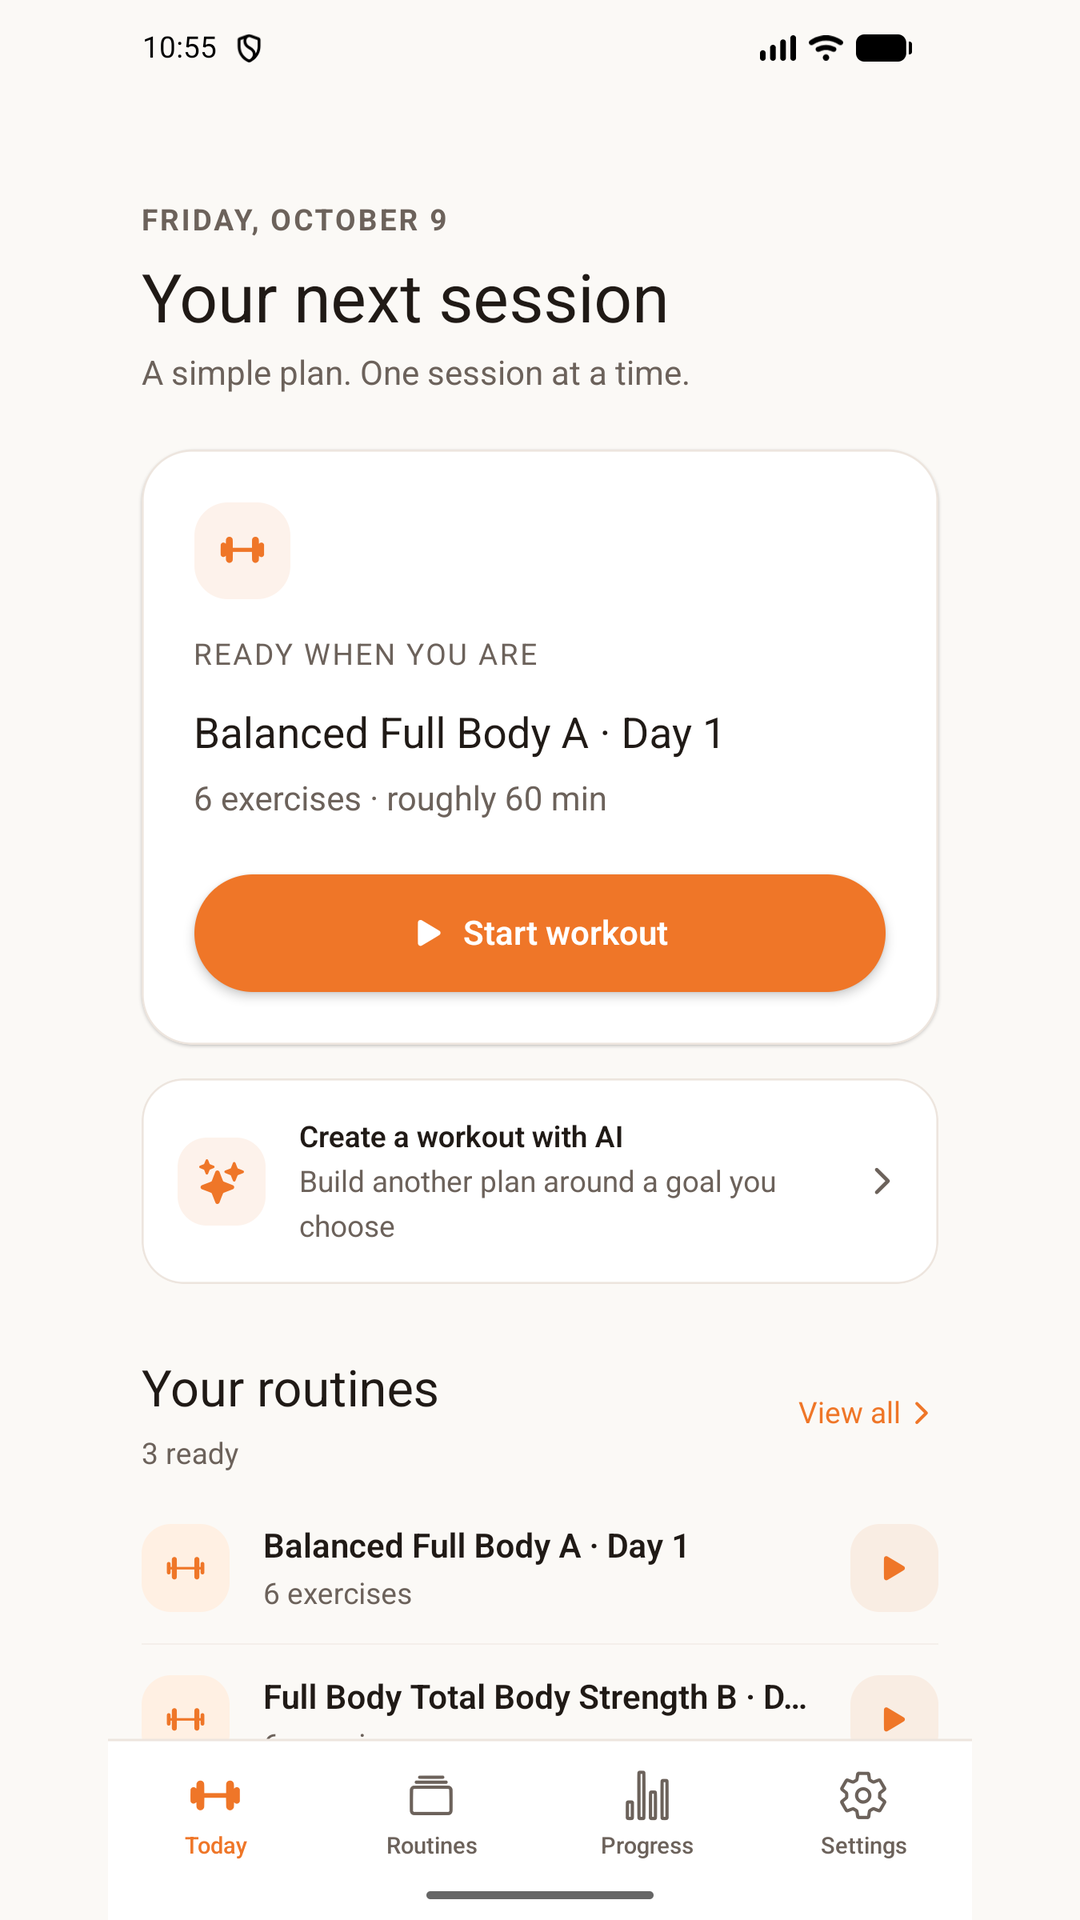
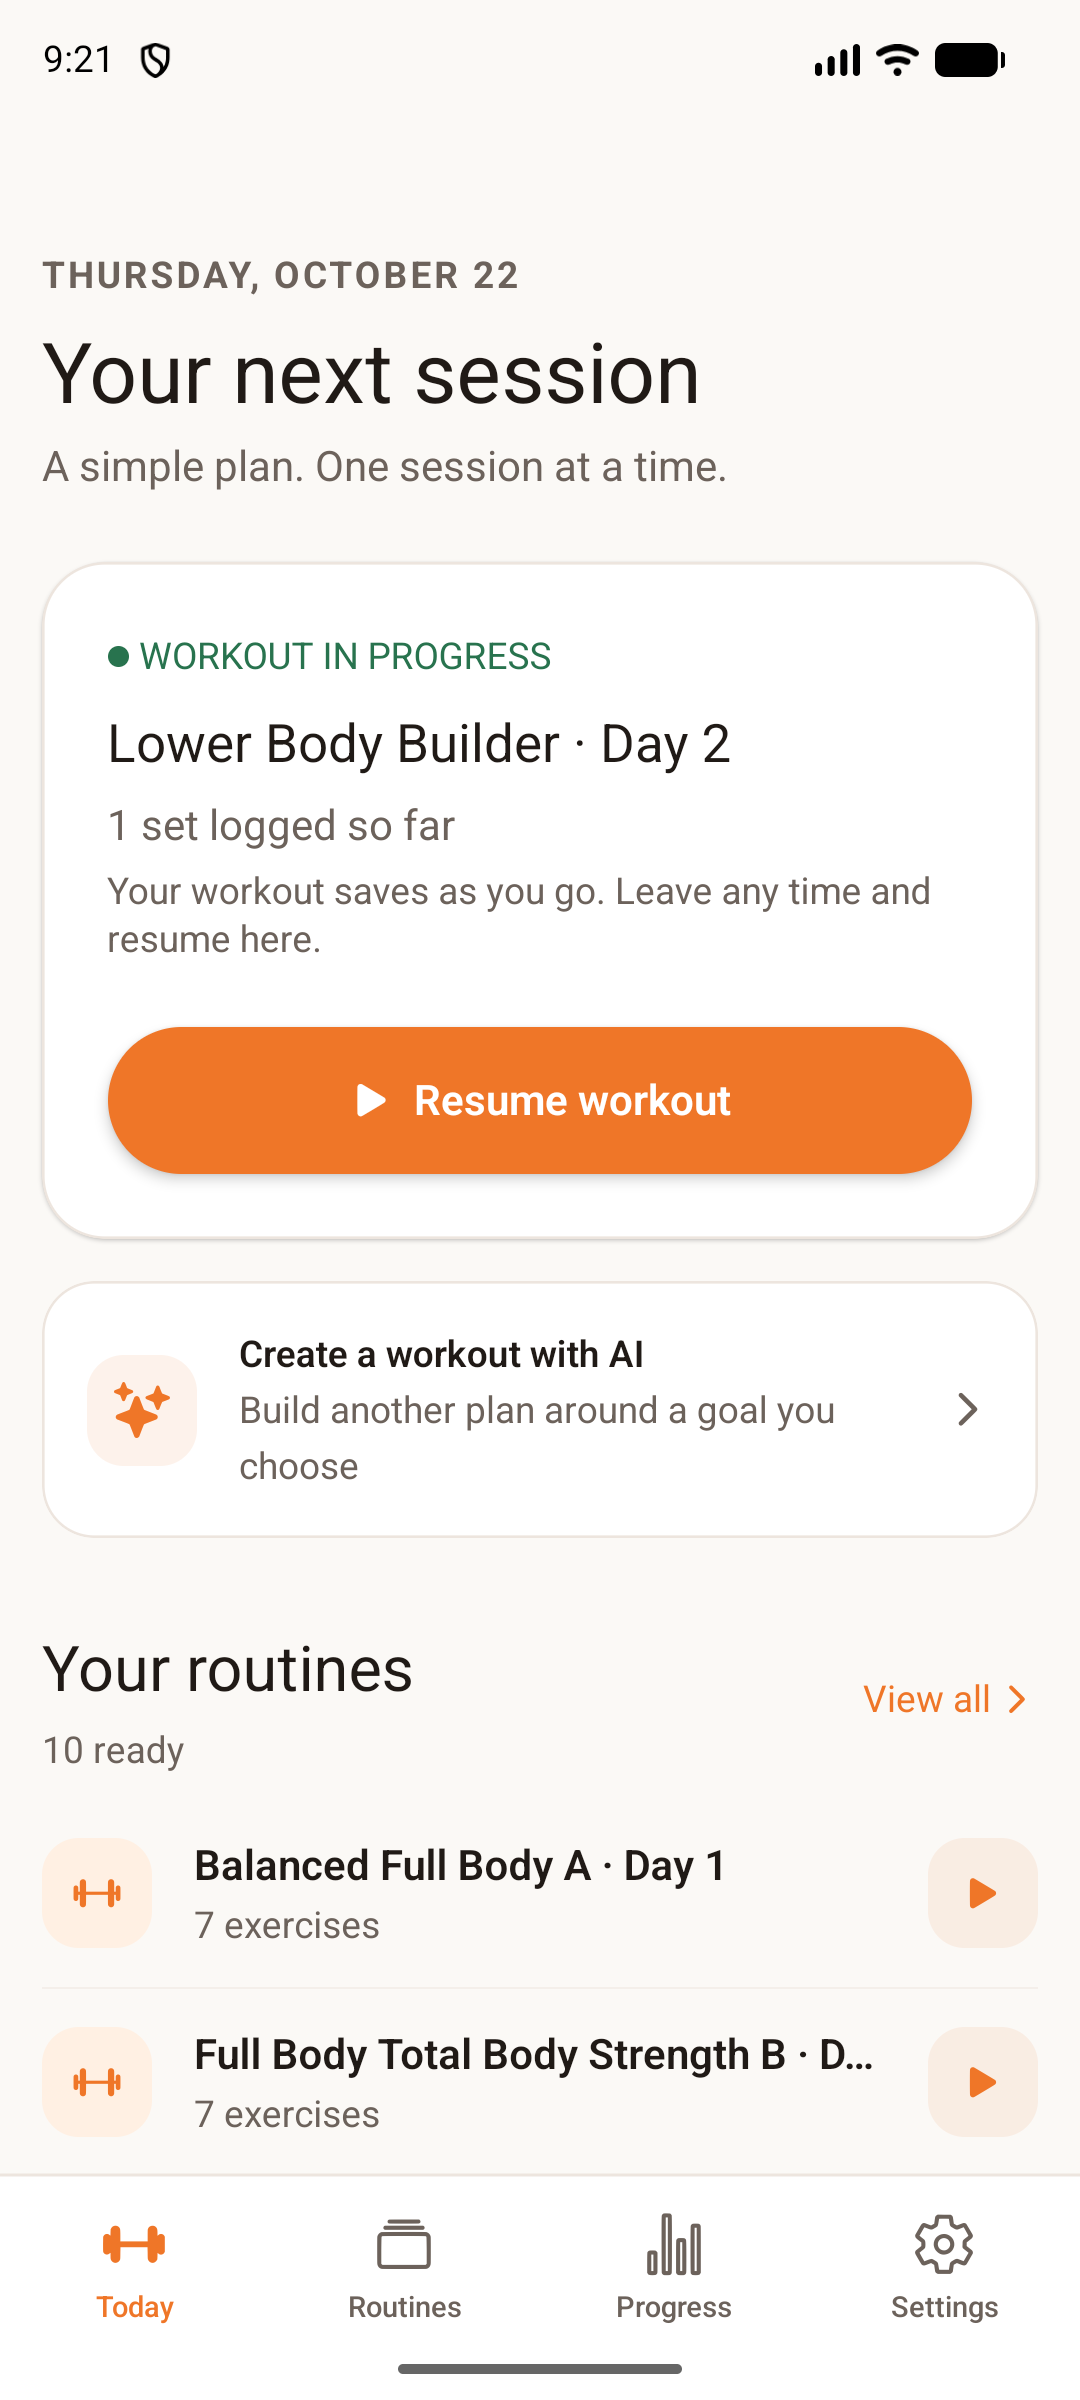
Update landing page with SecureSets 1.0.5 screenshots

diff --git a/index.html b/index.html
@@ -184,7 +184,7 @@
         </ul>
       </div>
       <figure class="hero-shot">
-        <img src="assets/01-home.png" alt="SecureSets home screen with a ready workout and saved routines" width="1080" height="1920">
+        <img src="assets/01-home.png?v=1.0.5" alt="SecureSets Today screen with a workout in progress, an AI planning shortcut and saved routines" width="1080" height="2400">
         <figcaption>Open the app and see what you planned to train.</figcaption>
       </figure>
     </section>
@@ -215,15 +215,15 @@
         </div>
         <div class="screens" aria-label="SecureSets app screens">
           <figure class="screen">
-            <img src="assets/02-routines.png" alt="SecureSets routines screen with saved training plans" width="1080" height="1920" loading="lazy">
+            <img src="assets/02-routines.png?v=1.0.5" alt="SecureSets routines screen with training plans, routine builder and starter routines" width="1080" height="2400" loading="lazy">
             <figcaption><strong>Reusable routines</strong>Make a plan once and edit it as needed.</figcaption>
           </figure>
           <figure class="screen">
-            <img src="assets/03-workout-logging.png" alt="SecureSets workout screen for logging reps and weight" width="1080" height="1920" loading="lazy">
-            <figcaption><strong>In-session logging</strong>See the sets you are recording as you go.</figcaption>
+            <img src="assets/03-progress.png?v=1.0.5" alt="SecureSets Progress screen showing training frequency, logged sets and Pro tools" width="1080" height="2400" loading="lazy">
+            <figcaption><strong>Progress at a glance</strong>Review training frequency and your recent workout history.</figcaption>
           </figure>
           <figure class="screen">
-            <img src="assets/04-pro-insights.png" alt="Illustrative SecureSets Pro lift trend chart" width="1080" height="1920" loading="lazy">
+            <img src="assets/04-pro-insights.png?v=1.0.5" alt="Illustrative SecureSets Pro chart showing a six-week bench press trend and next-workout proposal" width="1080" height="2400" loading="lazy">
             <figcaption><strong>Pro progress insights</strong>The chart is an illustration; your insights use your logged workouts.</figcaption>
           </figure>
         </div>
@@ -245,7 +245,7 @@
           <p class="price-note">Free to install with ads. In the Netherlands, optional Pro is €0.99/month or €9.99 once; prices vary by country.</p>
         </div>
         <figure class="pro-shot">
-          <img src="assets/04-pro-insights.png" alt="Illustrative example of a SecureSets Pro strength trend" width="1080" height="1920" loading="lazy">
+          <img src="assets/04-pro-insights.png?v=1.0.5" alt="Illustrative SecureSets Pro chart showing a six-week bench press trend and next-workout proposal" width="1080" height="2400" loading="lazy">
           <figcaption>Illustrative example. Your chart uses your own logged workouts.</figcaption>
         </figure>
       </div>
